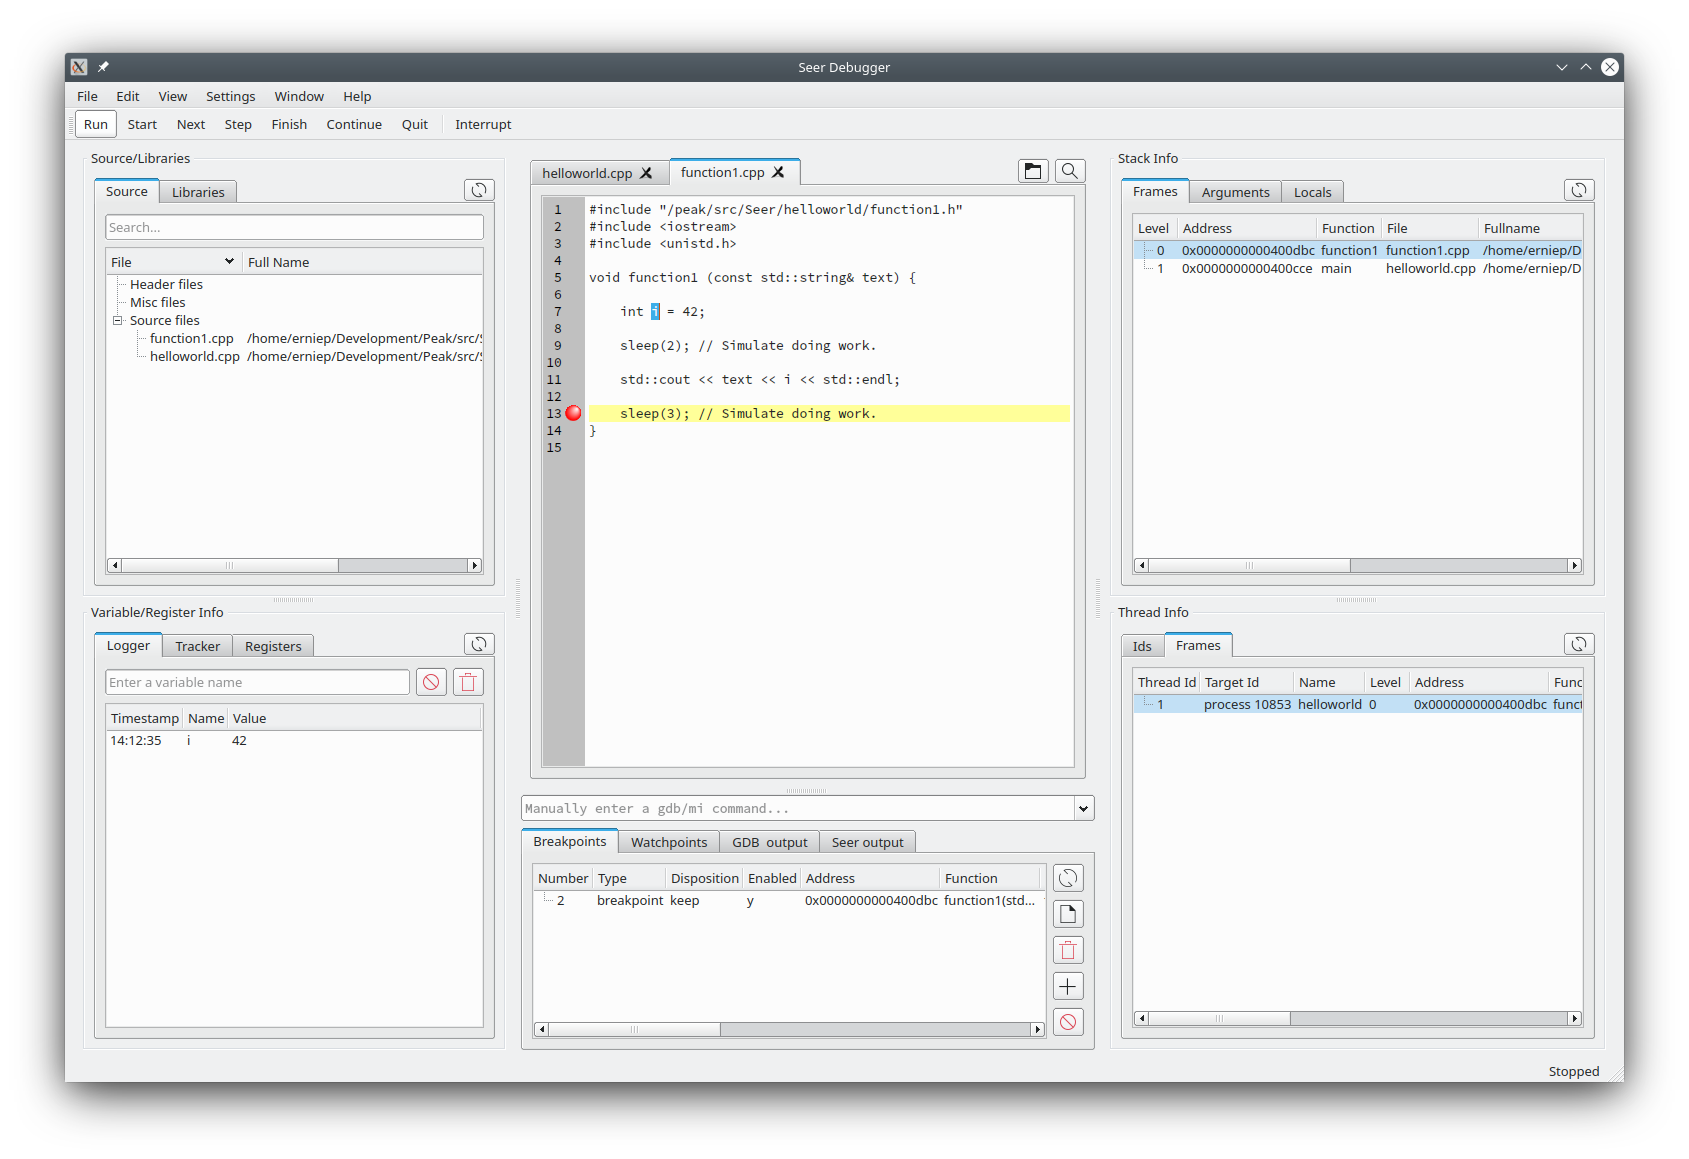
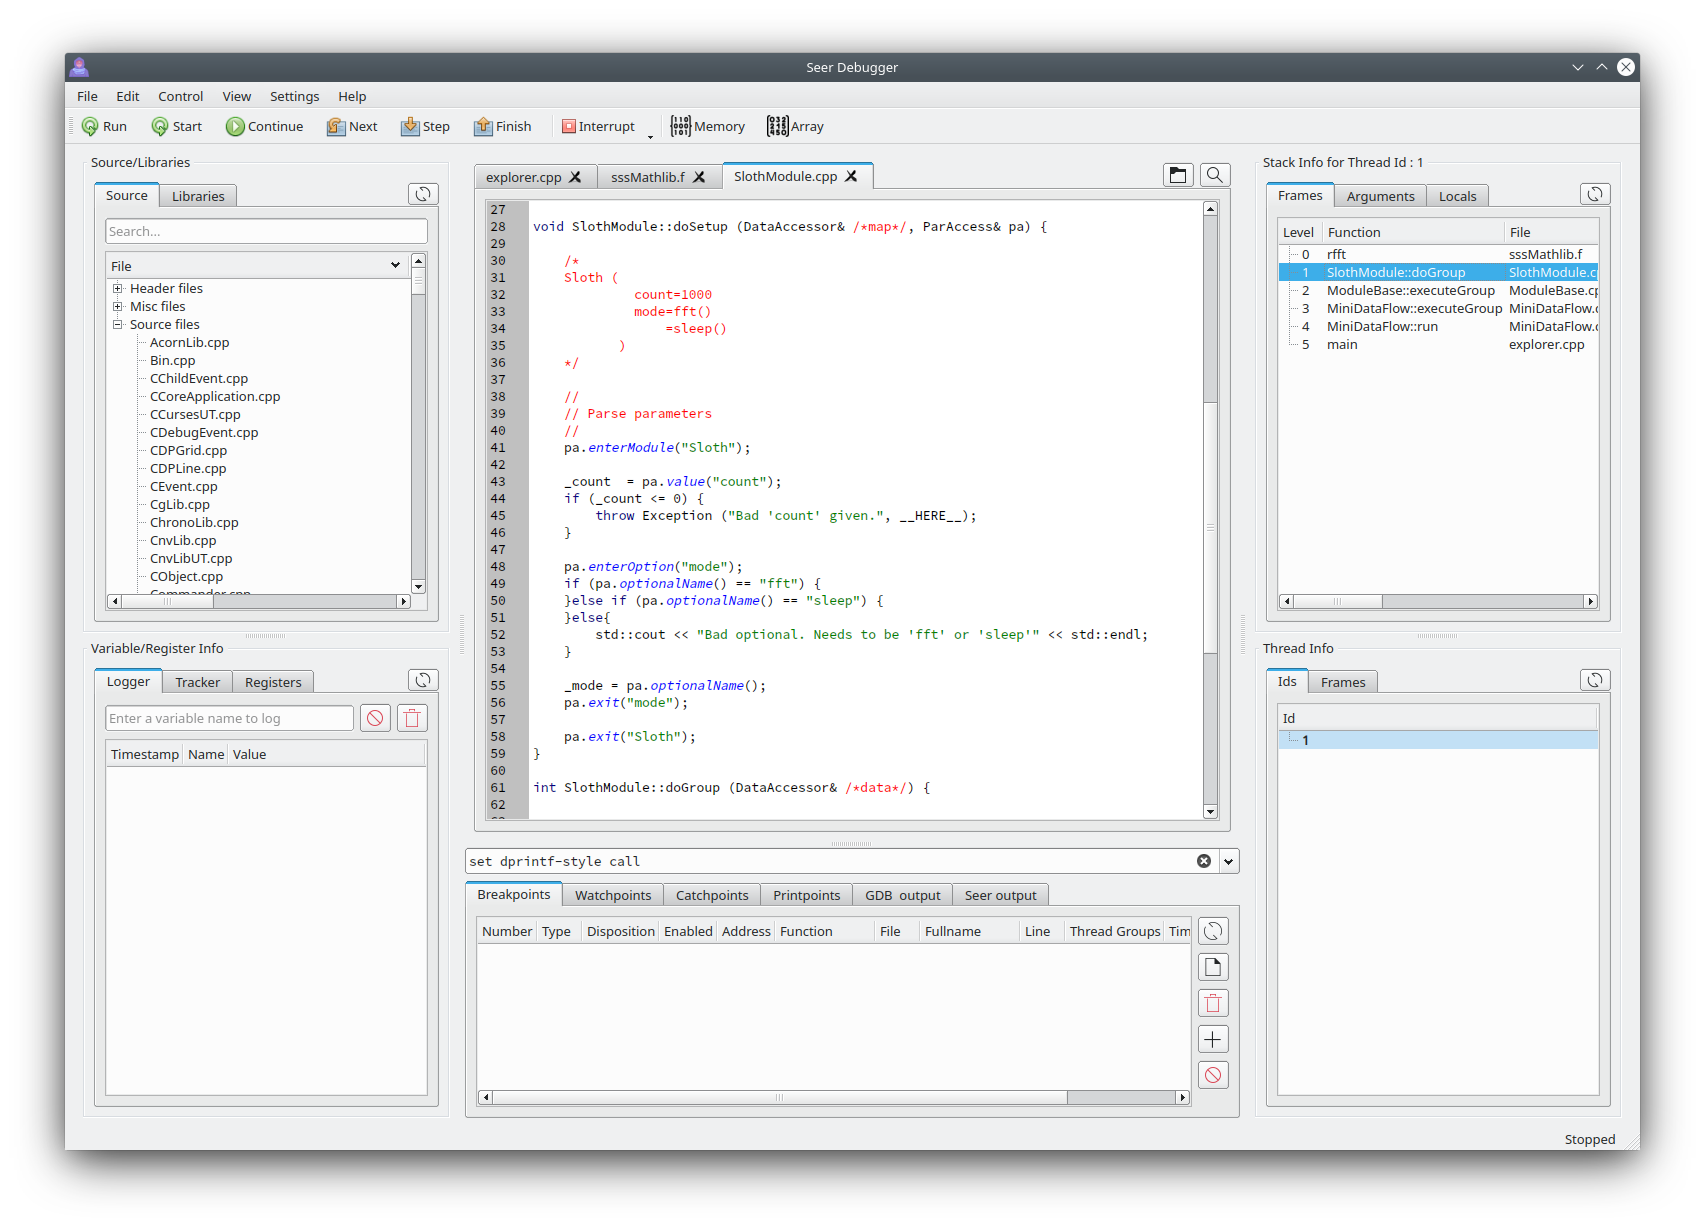
Update some images and project description.

Changed region(s): [[0.0308, 0.0311, 0.9544, 0.9629], [0.431, 0.2796, 0.4926, 0.3106], [0.0616, 0.8697, 0.0924, 0.9008]]

diff --git a/README.md b/README.md
@@ -5,8 +5,8 @@ Seer - a gui frontend to gdb for Linux.   (Ernie Pasveer  epasveer@att.net)
 
 This project is actively worked on. The aim is a simple, yet pleasing gui to gdb.
 
-This is the initial release. So it is considered beta. Please report any bugs or
-desired features to my email.
+Please report any bugs or desired features to my email or create a task in my
+github project page.
 
 
 Requirements
@@ -53,15 +53,21 @@ The main view for Seer looks like:
           "Add variable to Tracker".
         * Variables can be added to the "Memory Visualizer" by selecting the varible name and RMB and select
           "Add variable to Memory Visualizer".
-        * A breakpoint can be created by RMB on a specific line.
+        * A breakpoint/printpoint can be created by RMB on a specific line.
         * Can execute to a specific line by RMB on a specific line.
 
-    * Breakpoints, Watchpoints, manual gdb commands, and logs.
+    * Breakpoints, Watchpoints, Catchpoint, Printpoint, manual gdb commands, and logs.
         * The area below the Code Manager.
         * Manual commands.  Manually enter a gdb or gdbmi command.
+          The commands are remembered for the next Seer use.
         * Breakpoint manager. Create and manage breakpoints.
-        * Watchpoint manager. Create and manage watchpoints. A watchpoint monitors when a variable is accessed
-          (read, write, read/write).
+        * Watchpoint manager. Create and manage watchpoints.
+          A watchpoint monitors when a variable is accessed (read, write, read/write).
+        * Catchpoint manager. Create and manage catchpoints.
+          A catchpoint stops execution on a C++ throw/rethrow/catch call.
+        * Printpoint manager. Create and manage printpoints.
+          A printpoint is like a breakpoint but it allows you to print variables at
+          that printpoint. See gdb's 'dprintf' call.
         * GDB output. A log of any output from the gdb program itself.
         * Seer output. A log of any output from the Seer program itself. As diagnostics.
 
@@ -143,5 +149,6 @@ May need root access.
 Support/Contact
 ===============
 
-    Send an email to epasveer@att.net for any bugs or features.
+    Send an email to epasveer@att.net for any bugs or features. Or create a task
+    in my github project page.
 
